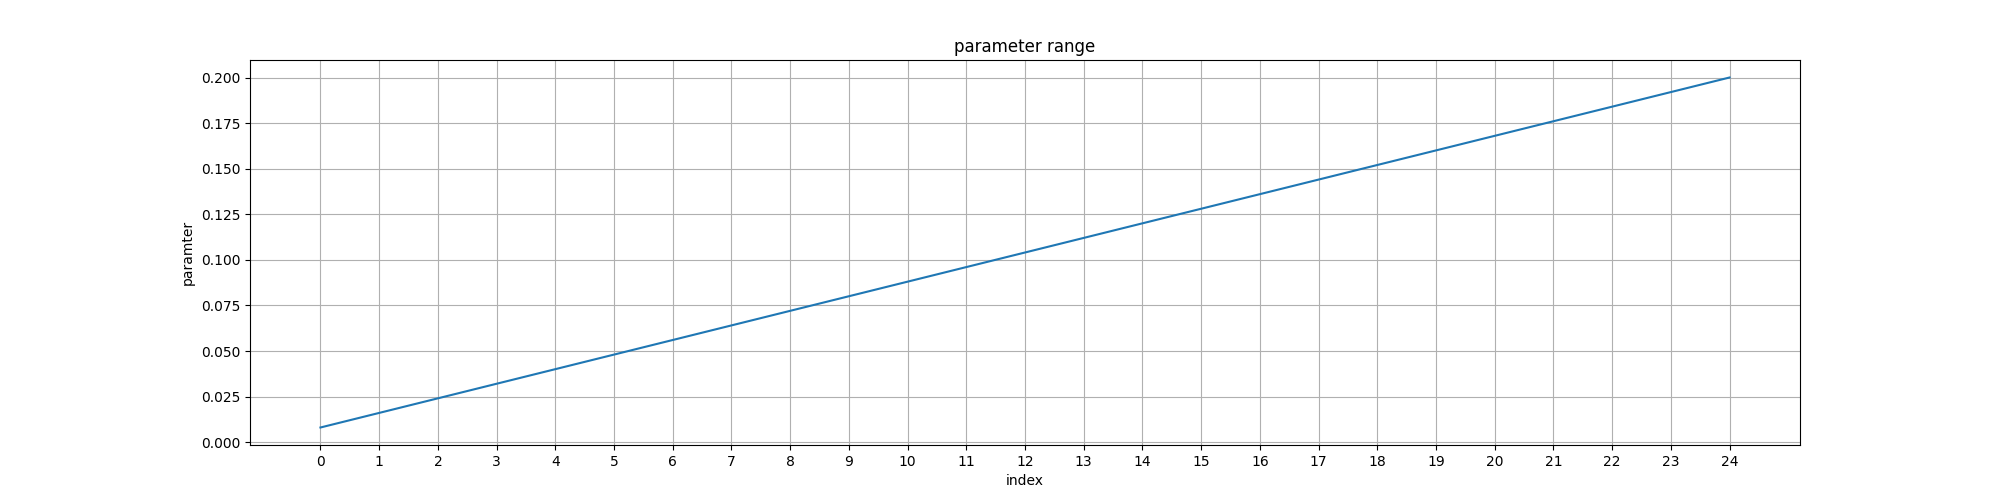
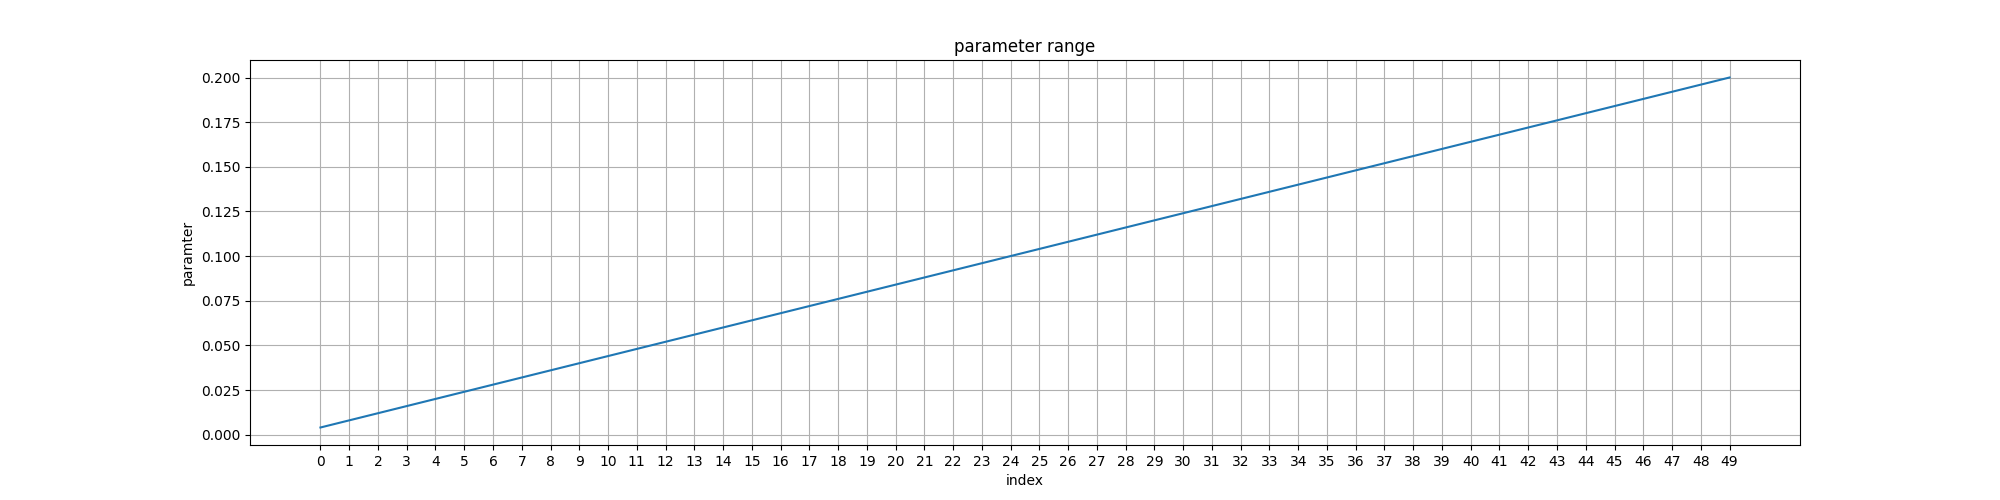
Added new stuff to .py files training and inference. Wrapped ML model under business rules in inference.

diff --git a/scripts/training/main.py b/scripts/training/main.py
@@ -23,11 +23,52 @@ print("Data Reading Complete.")
 print("Data Shape: ",df.shape)
 print("Data Columns: ",df.columns)
 
+print("Defining business rules...")
+def business_rule_anomaly(row,feature1_bounds,feature2_bounds):
+    f1 = row['column1']
+    f2 = row['column2']
+
+    if(f1>feature1_bounds[1] or f1<feature1_bounds[0] or f2>feature2_bounds[1] or f2<feature2_bounds[0]):
+        return -1
+    else:
+        return 1
+    
+def business_rule_nonanomaly(row,feature1_bounds,feature2_bounds):
+    f1 = row['column1']
+    f2 = row['column2']
+
+    if(f1<=feature1_bounds[1] and f1>=feature1_bounds[0] and f2<=feature2_bounds[1] and f2>=feature2_bounds[0]):
+        return -1
+    else:
+        return 1
+
+
+feature1_max=df['column1'].max()
+feature1_min=df['column1'].min()
+feature2_max=df['column2'].max()
+feature2_min=df['column2'].min()
+
+print("fetching business rules requirements...")
+feature1_anomaly_bounds=[0,8]
+feature2_anomaly_bounds=[0,8]
+feature1_nonanomaly_bounds=[0,1.5]
+feature2_nonanomaly_bounds=[0,1.5]
+
+print("Applying Business rules...")
+df['business_rule_anomaly'] = df.apply(business_rule_anomaly,axis=1,feature1_bounds=feature1_anomaly_bounds, feature2_bounds=feature2_anomaly_bounds)
+df['business_rule_nonanomaly'] = df.apply(business_rule_nonanomaly,axis=1,feature1_bounds=feature1_nonanomaly_bounds, feature2_bounds=feature2_nonanomaly_bounds)
+print("done.")
+
+print("Making data ready for ML")
+df_with_business_results = df.copy()
+df = df.drop(df.loc[df['business_rule_anomaly']==-1].index,axis=0)
+print(df.shape)
+df = df.reset_index(drop=True)
+df = df.drop(columns=['business_rule_anomaly','business_rule_nonanomaly'])
+print("done.")
+
+
 print("Parameter Optimizer Functions Loading...")
-def calculate_avg_anomaly_score(model, df_anomaly):
-    anomaly_scores = model.decision_function(df_anomaly.values)
-    avg_anomaly_score = np.mean(anomaly_scores)
-    return avg_anomaly_score
 
 def calculate_separation_distances(df_to_fit, df_to_calculate):
     n_neighbors = 3
@@ -37,12 +78,11 @@ def calculate_separation_distances(df_to_fit, df_to_calculate):
     nbrs.kneighbors(df_to_calculate.values)
     distances = nbrs.kneighbors(df_to_calculate.values)[0]
     required_distances = np.min(distances, axis=1)
-    result = np.mean(required_distances)
+    result = np.min(required_distances)
     return result
 print("Parameter Optimizer Functions Loaded.")
 
 print("Creating Parameter Grid...")
-iterations = 5
 main_start_point=0.0001
 main_end_point=0.2
 main_intervals=5
@@ -54,35 +94,36 @@ range_=[]
 start_point=main_start_point
 for _ in range(main_intervals):
     for _ in range(points_in_each_interval):
-        #range_.append(random.uniform(start_point,start_point+step))
         range_.append(start_point+small_step)
         start_point=start_point+small_step
 
 range_.sort()
-neg_range_ = [-i for i in range_]
+print("Parameter Grid Population Completed.")
 
 training_logs = {}
-print("Parameter Grid Population Completed.")
 
 print("Starting Iterations Through Random Numbers...")
 random_numbers = [1]
-for random_number in random_numbers:
-    print("random_number: ",random_number)
+
+for i, random_number in zip(range(len(random_numbers)),random_numbers):
+    print("Iteration: ",i)
     separation_distances=[]
-    print("Generating Models For Parameter Grid...")
     for parameter in range_:
-        model = IsolationForest(contamination=parameter,max_features=df.shape[1],max_samples=0.8, random_state=random_number)
+        print("Training Model for Contaminantion: ",parameter)
+        model = IsolationForest(contamination=parameter,max_features=df.shape[1],max_samples=0.8, random_state=random_number,)
         model.fit(df.values)
         outliers = model.predict(df.values)
         anomaly_indices = np.where(outliers == -1)[0]
         df_anomaly = df.iloc[anomaly_indices]
         df_nonanomaly = df.drop(anomaly_indices)
-        separation_distances.append(calculate_separation_distances(df_to_fit=df_nonanomaly, df_to_calculate=df_anomaly))
-    print("Updating Traininig Logs...")
-    training_logs.update({"{}".format(random_number):
+        separation_distance = calculate_separation_distances(df_to_fit=df_nonanomaly, df_to_calculate=df_anomaly)
+        separation_distances.append(separation_distance)
+        separation_distances = [item for item in separation_distances if item!=None]
+        separation_distances = separation_distances + [None]*(len(range_)-len(separation_distances))
+
+    training_logs.update({"{}".format(i):
                     {
                     'range_':range_,
-                    'neg_range_': neg_range_,
                     'scores': separation_distances                   
                     }})
     print("Training Logs Updated.")
@@ -94,14 +135,14 @@ print("Done.")
 
 print("Dumping Granular Training Logs...")
 # Each iteration separately
-for i in random_numbers:
+for i in range(len(random_numbers)):
     range_ = training_logs.get("{}".format(i)).get("range_")
     neg_range = [-i for i in range_]
     scores = training_logs.get("{}".format(i)).get("scores")
     pd.DataFrame({
         'parameter':range_,
         'scores':scores      
-        }).to_csv(training_data_path+"/random_number-{}.csv".format(i),index=False)
+        }).to_csv(training_data_path+"/iteration-{}.csv".format(i),index=False)
 print("Done.")
 
 print("Reading Training Logs...")
@@ -110,7 +151,7 @@ with open(training_logs_file, 'r') as f:
 
 print("Creating Plots...")
 print("Parameter Grid...")
-for i in [random_numbers[0]]:
+for i in range(len(random_numbers)):
     range_ = training_logs.get("{}".format(i)).get("range_")
     neg_range = [-i for i in range_]
     avg_anomaly_scores = training_logs.get("{}".format(i)).get("avg_anomaly_scores")
@@ -125,11 +166,12 @@ for i in [random_numbers[0]]:
     plt.close()
 
 print("Parameter Grid And Optimizer Function Output...")
-for i in random_numbers:
+# Look for a sudden drop, a knee. Choose the point at the edge of the sudden drop
+for i in range(len(random_numbers)):
     range_ = training_logs.get("{}".format(i)).get("range_")
     scores = training_logs.get("{}".format(i)).get("scores")
     plt.figure(figsize=(20,5))
-    plt.plot(range_,scores,label="random_number-{}".format(i))
+    plt.plot(range_,scores,label="iteration-{}".format(i))
     plt.xlabel("parameter")
     plt.ylabel("optimizer function output")
     plt.title("optimizer function output VS parameter")
@@ -139,30 +181,14 @@ for i in random_numbers:
     plt.savefig(plots_path+"/training-parameter_and_output-iteration-{}.png".format(i))
     plt.close()
 
-print("Negative Parameter Grid And Optimizer Function Output...")
-for i in random_numbers:
-    range_ = training_logs.get("{}".format(i)).get("range_")
-    neg_range = [-i for i in range_]
-    scores = training_logs.get("{}".format(i)).get("scores")
-    plt.figure(figsize=(20,5))
-    plt.plot(neg_range,scores,label="random_number-{}".format(i))
-    plt.xlabel("negative parameter")
-    plt.ylabel("optimizer function output")
-    plt.title("optimizer function output VS negative parameter")
-    plt.xticks(neg_range,rotation='vertical')
-    plt.grid()
-    plt.legend(loc='upper left', bbox_to_anchor=(1.05, 1))
-    plt.savefig(plots_path+"/negative_training-parameter_and_output-iteration-{}.png".format(i))
-    plt.close()
-
 print("Done.")
 
 print("Getting Optimized Parameter Through Algorithm...")
 knee_points=[]
-for i in random_numbers:
+for i in range(len(random_numbers)):
     range_ = training_logs.get("{}".format(i)).get("range_")
     scores = training_logs.get("{}".format(i)).get("scores")
-    knee_locator = KneeLocator(range_, scores, curve='concave', direction='increasing')
+    knee_locator = KneeLocator(range_, scores, curve='convex', direction='decreasing')
     knee_point = knee_locator.knee
     knee_point = None if knee_point==None else knee_point
     knee_points.append(knee_point)
@@ -177,11 +203,12 @@ print("Please note that there is no guarantee that the above value is the best."
 print("Please view plots and training logs to select the best value for the parameter")
 final_optimized_parameter = input("Please enter the parameter value for the final ML model: ")
 final_optimized_parameter = float(final_optimized_parameter)
+print("You have selected: ",final_optimized_parameter)
 print("Thank You!")
 
 print("Training Final Model...")
 # Create and fit the Isolation Forest model
-model = IsolationForest(contamination=final_optimized_parameter,max_features=df.shape[1])
+model = IsolationForest(contamination=final_optimized_parameter,max_features=df.shape[1], random_state=random_numbers[0])
 model.fit(df.values)
 print("Final Model Training Complete.")
 

diff --git a/scripts/inference/main.py b/scripts/inference/main.py
@@ -4,15 +4,68 @@ import os
 current_dir = os.getcwd()
 pickle_model = os.path.abspath(current_dir+"/resources/model.pkl")
 input_file = os.path.abspath(current_dir+"/data/inference/input_file.dat")
-output_file = os.path.abspath(current_dir+"/data/inference/output_file.dat")
+#output_file = os.path.abspath(current_dir+"/data/inference/output_file.dat")
+output_file = os.path.abspath(current_dir+"/data/inference/combined_csv.csv")
+
+
+def business_rule_anomaly(row,feature1_bounds,feature2_bounds):
+    f1 = row['column1']
+    f2 = row['column2']
+
+    if(f1>feature1_bounds[1] or f1<feature1_bounds[0] or f2>feature2_bounds[1] or f2<feature2_bounds[0]):
+        return -1
+    else:
+        return 1
+    
+def business_rule_nonanomaly(row,feature1_bounds,feature2_bounds):
+    f1 = row['column1']
+    f2 = row['column2']
+
+    if(f1<=feature1_bounds[1] and f1>=feature1_bounds[0] and f2<=feature2_bounds[1] and f2>=feature2_bounds[0]):
+        return -1
+    else:
+        return 1
+    
+def populate_final_result(row):
+    if(row['business_rule_anomaly']==-1):
+        return "Anomaly: Business"
+    elif(row['business_rule_nonanomaly']==-1):
+        return "NonAnomaly: Business"
+    elif(row['predictions']==-1):
+        return "Anomaly: ML"
+    elif(row['predictions']==1):
+        return "NonAnomaly: ML"
 
 with open(pickle_model, 'rb') as f:
     loaded_model = pickle.load(f)
-    print(loaded_model.get_params())
-    with open(input_file,"r") as f:
-        numbers = [line.strip().split(",") for line in f]
-    predictions = loaded_model.predict(numbers).tolist()
-    with open(output_file,"w") as f:
-        for result in predictions:
-            f.write(str(result)+"\n")
+print(loaded_model.get_params())
+with open(input_file,"r") as f:
+    numbers = [line.strip().split(",") for line in f]
+
+import pandas as pd
+
+#create a daraframe
+df = pd.DataFrame(numbers, columns=['column1','column2'])
+df['column1'] = df['column1'].astype('float')
+df['column2'] = df['column2'].astype('float')
+
+#Apply abs anomaly business logic
+feature1_anomaly_bounds=[0,8]
+feature2_anomaly_bounds=[0,8]
+feature1_nonanomaly_bounds=[0,1.5]
+feature2_nonanomaly_bounds=[0,1.5]
+
+df['business_rule_anomaly'] = df.apply(business_rule_anomaly,axis=1,feature1_bounds=feature1_anomaly_bounds, feature2_bounds=feature2_anomaly_bounds)
+df['business_rule_nonanomaly'] = df.apply(business_rule_nonanomaly,axis=1,feature1_bounds=feature1_nonanomaly_bounds, feature2_bounds=feature2_nonanomaly_bounds)
+
+# Apply ML logic
+predictions = loaded_model.predict(df.loc[:,['column1','column2']].values).tolist()
+df['predictions'] = predictions
+
+df['final'] = df.apply(populate_final_result,axis=1)
+df.to_csv(output_file, index=False)
+
+# with open(output_file,"w") as f:
+#     for result in predictions:
+#         f.write(str(result)+"\n")
     
